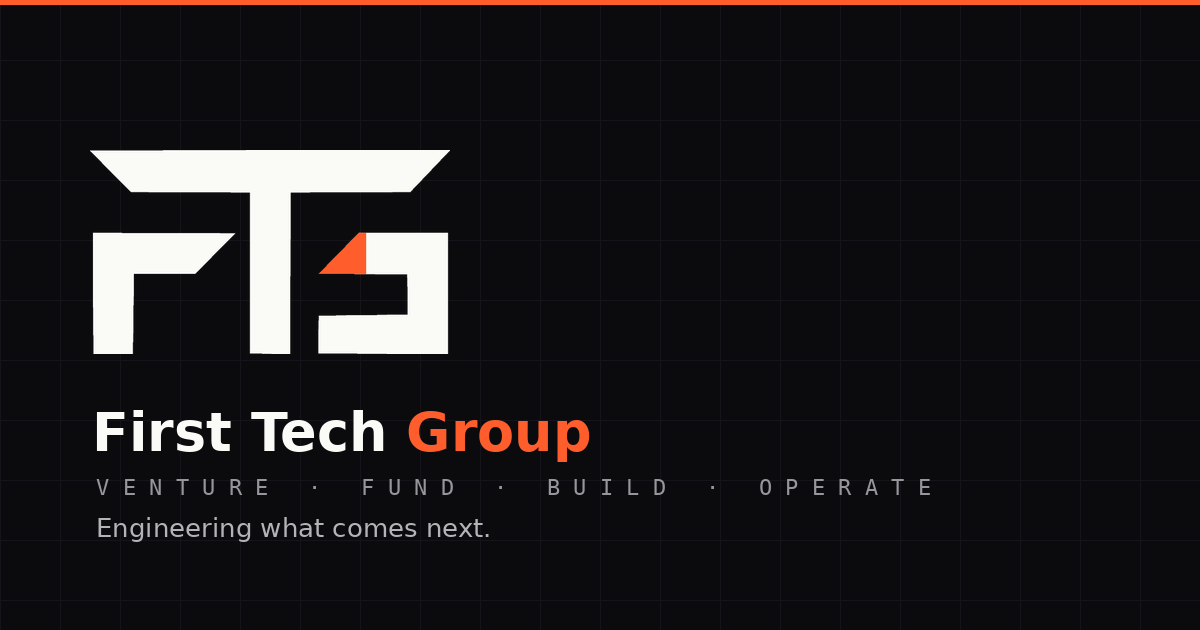
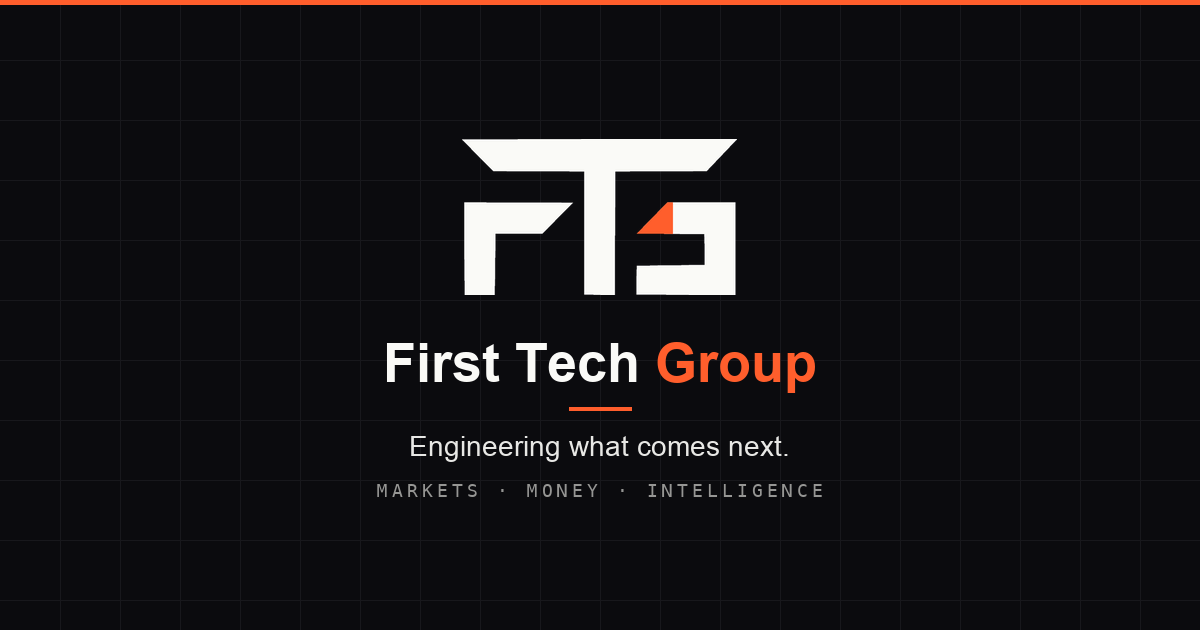
Rebuild OG share image centered + crop-safe; richer OG/Twitter metadata
The old og.png was left-aligned and got sliced by Instagram's portrait/square crop. Rebuilt it centered within a safe zone (FTG mark + wordmark + tagline + positioning line) so it survives square, portrait, and landscape crops. Added og:image width/height/alt, Twitter title/description, and a ?v=2 cache-bust so scrapers refetch.

diff --git a/src/app/layout.tsx b/src/app/layout.tsx
@@ -16,10 +16,15 @@ export const metadata: Metadata = {
     description: "The infrastructure layer for the digital economy. Markets · Money · Intelligence.",
     url: "https://www.ftg.vc",
     siteName: "First Tech Group",
-    images: ["/og.png"],
+    images: [{ url: "/og.png?v=2", width: 1200, height: 630, alt: "First Tech Group — Engineering what comes next" }],
     type: "website",
   },
-  twitter: { card: "summary_large_image", images: ["/og.png"] },
+  twitter: {
+    card: "summary_large_image",
+    title: "First Tech Group — Engineering what comes next",
+    description: "The infrastructure layer for the digital economy. Markets · Money · Intelligence.",
+    images: ["/og.png?v=2"],
+  },
 };
 
 export default function RootLayout({ children }: { children: React.ReactNode }) {